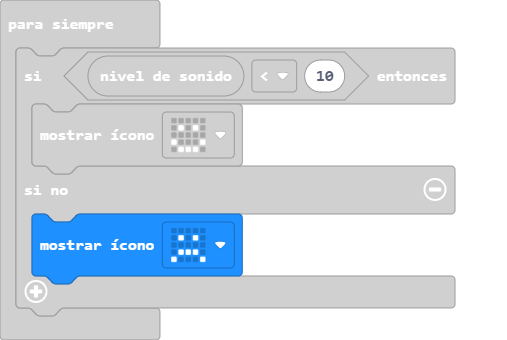
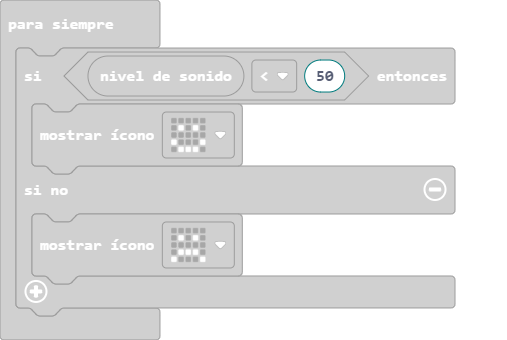
Actualizar main.blocks, main.ts

diff --git a/main.ts b/main.ts
@@ -1,5 +1,5 @@
 basic.forever(function () {
-    if (input.soundLevel() < 10) {
+    if (input.soundLevel() < 50) {
         basic.showIcon(IconNames.Happy)
     } else {
         basic.showIcon(IconNames.Sad)
